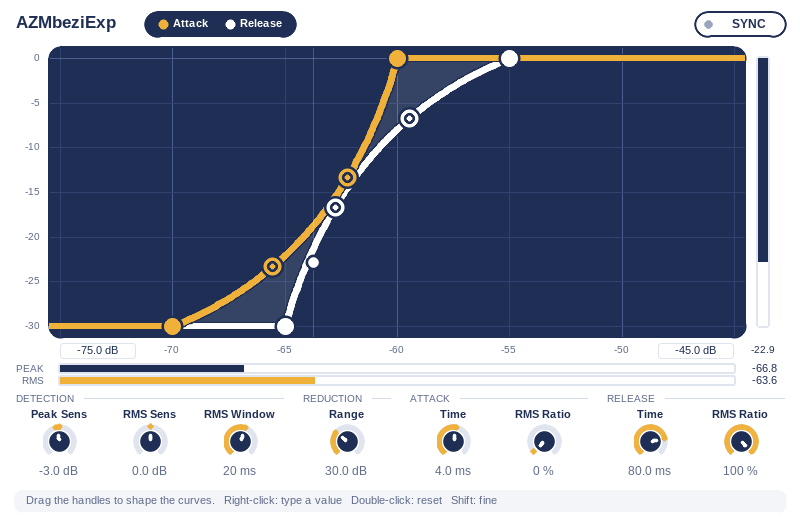
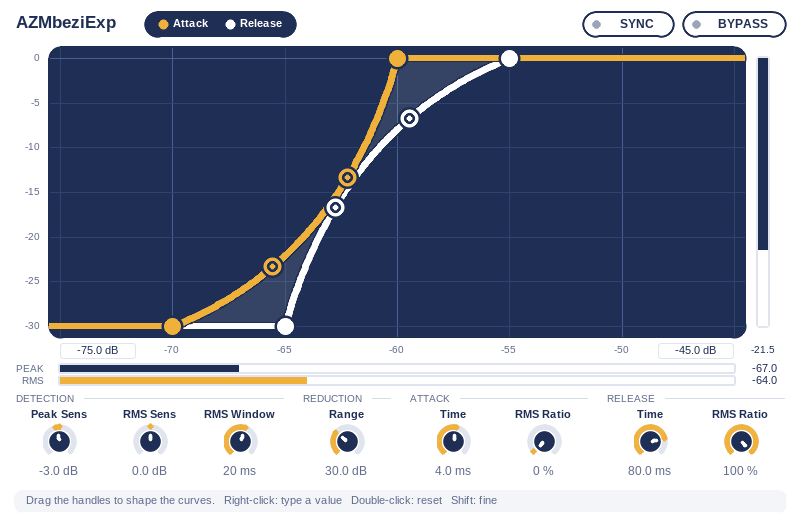
Remove live gain dot, add Bypass button
- Drop the live level/gain dot from the graph (meters and GR bar remain)
- Add Bypass (slider 27) with 5 ms crossfade; button placed right of SYNC
- Update README, algorithm doc, screenshot, and add bypass test

diff --git a/tests/test_ysfx.cpp b/tests/test_ysfx.cpp
@@ -236,6 +236,20 @@ static void test_old_state()
     near(e.get(20), 100, 0, "new release ratio defaults");
 }
 
+static void test_bypass()
+{
+    Effect e;
+    double l = 0;
+    for (int i = 0; i < 2000; ++i) l = e.run(0.001, 0.001);
+    check(std::abs(l) < 0.001 * 0.5, "expander attenuates quiet input");
+    e.set(27, 1);
+    for (int i = 0; i < 4800; ++i) l = e.run(0.001, 0.001);
+    near(l, 0.001, 1e-9, "bypass passes input through");
+    e.set(27, 0);
+    for (int i = 0; i < 4800; ++i) l = e.run(0.001, 0.001);
+    check(std::abs(l) < 0.001 * 0.5, "bypass off restores processing");
+}
+
 static void test_clamping()
 {
     Effect e;
@@ -495,6 +509,7 @@ int main()
     test_block_sizes();
     test_legacy_controls_do_not_affect_audio();
     test_old_state();
+    test_bypass();
     test_gui_bounds();
     test_curve_shapes();
     test_handle_drag();

diff --git a/README.md b/README.md
@@ -4,7 +4,7 @@
 
 音量の上昇と下降にそれぞれカーブを設定し、Peak と RMS の混合比や追随時間を独立して調整できます。フルバンド・ステレオリンクで処理し、ルックアヘッドによる遅延はありません。
 
-![AZMbeziExp の画面。Attack と Release のカーブ、メーター、各つまみを表示](docs/gui.png)
+![AZMbeziExp の画面。Attack と Release のカーブ、メーター、SYNC と BYPASS、各つまみを表示](docs/gui.png)
 
 ## 導入
 
@@ -12,7 +12,7 @@ JSFX に対応したホストのエフェクト用フォルダに [`jsfx/AZMbezi
 
 ## 使い方
 
-1. 歌声を再生し、グラフのメーターを見ながら Close／Open を調整します。Close 以下で最大減衰、Open 以上で減衰なしになります。
+1. 歌声を再生し、グラフ下のメーターを見ながら Close／Open を調整します。Close 以下で最大減衰、Open 以上で減衰なしになります。
 2. 曲線上の2つの点で開き方を調整します。Attack は入り、Release は語尾を聴きながら設定します。
 3. Range で最大減衰量を決め、Time と RMS Ratio で追随の速さや検知の性質を調整します。
 
@@ -20,7 +20,9 @@ JSFX に対応したホストのエフェクト用フォルダに [`jsfx/AZMbezi
 
 ## 画面と操作
 
-グラフの横軸は検知レベル（dB）、縦軸はゲイン（dB）です。山吹色が Attack、白が Release です。各カーブの **Close／Open** ハンドルを横方向に、曲線上の2つの **Point** ハンドルを縦横にドラッグして編集します。2点を逆方向に動かすとS字になります。曲線は Close／Open と 0 dB〜−Range の範囲を出ず、ダブルクリックまたは Ctrl+クリックでそのカーブの形状を既定値に戻します。白い点は検知レベルと実ゲイン、右側の縦バーは実ゲインを示します。Peak／RMS メーターは感度調整後のレベルを示します。
+グラフの横軸は検知レベル（dB）、縦軸はゲイン（dB）です。山吹色が Attack、白が Release です。各カーブの **Close／Open** ハンドルを横方向に、曲線上の2つの **Point** ハンドルを縦横にドラッグして編集します。2点を逆方向に動かすとS字になります。曲線は Close／Open と 0 dB〜−Range の範囲を出ず、ダブルクリックまたは Ctrl+クリックでそのカーブの形状を既定値に戻します。右側の縦バーは実ゲインを示します。Peak／RMS メーターは感度調整後のレベルを示します。
+
+ヘッダー右端の **BYPASS** を On にすると、処理を通さず入力をそのまま出力します（約5 msでクロスフェード。検知は継続）。
 
 **SYNC** を On にすると Release にも Attack カーブを使います。Release カーブの設定は保持され、Off にすると戻ります。RMS Ratio と Time はそれぞれ独立して調整できます。
 
